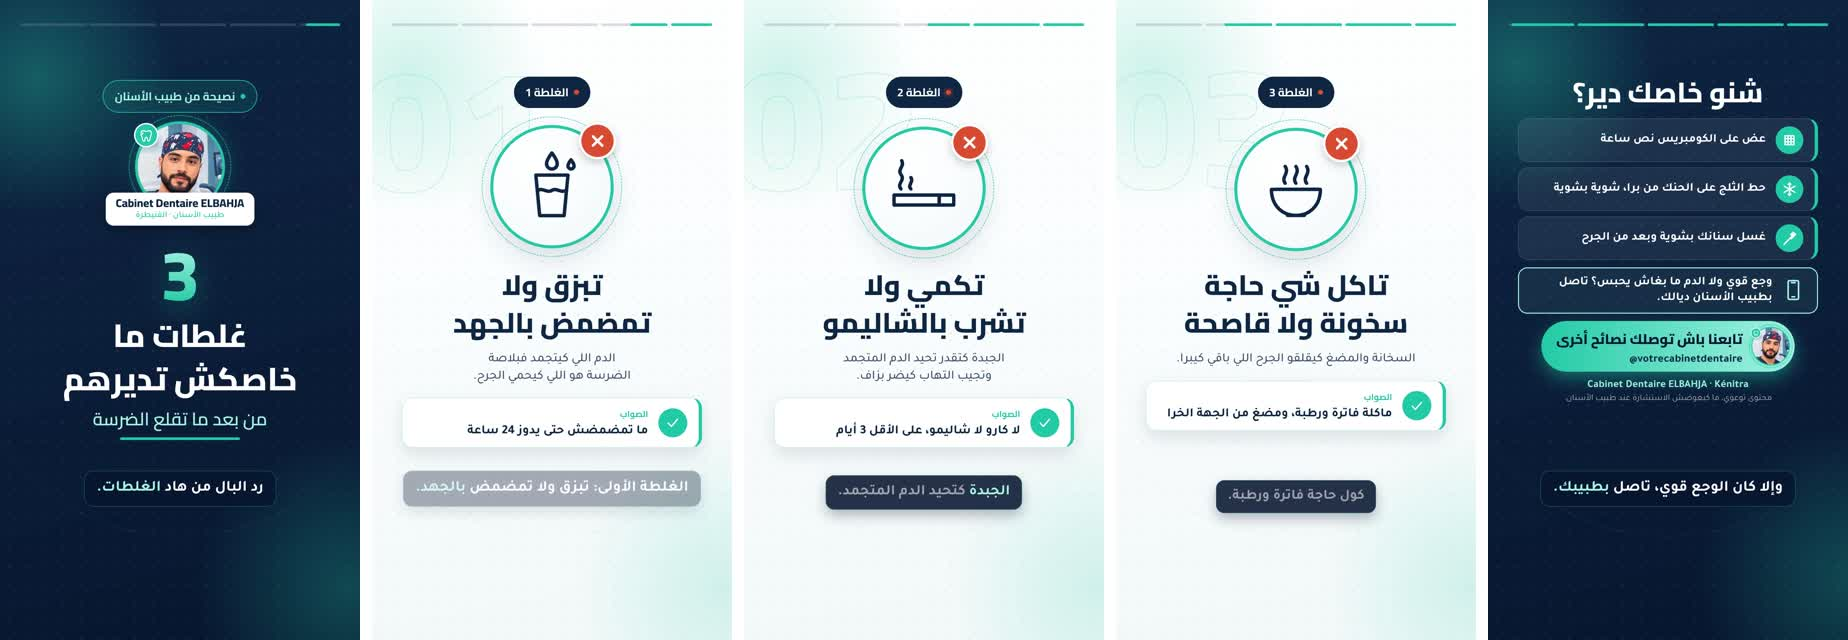
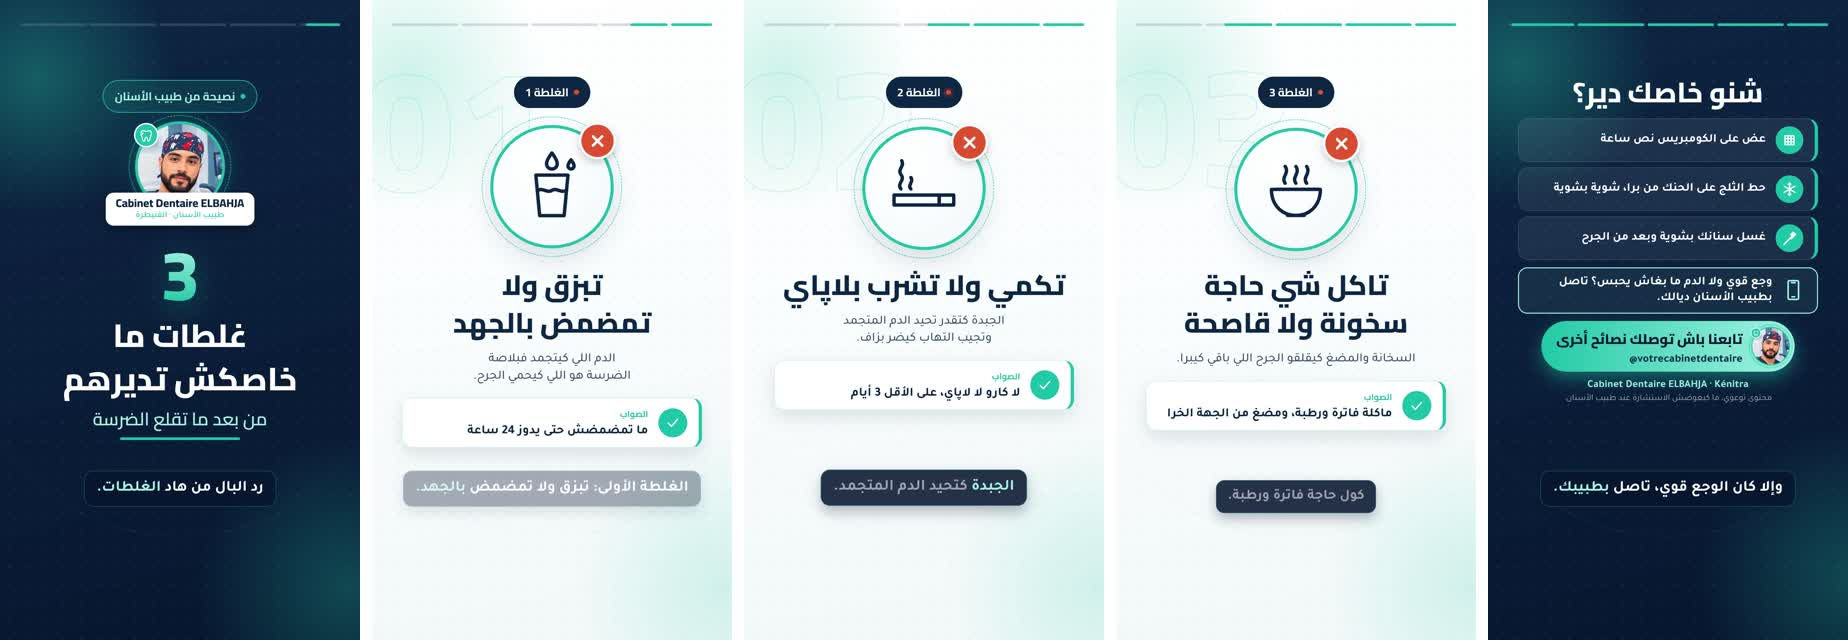
Use لاپاي instead of الشاليمو for "straw"
Claude-Session: https://claude.ai/code/session_019emWRc321bo3ZfySXjdsNf

Changed region(s): [[0.4318, 0.4062, 0.586, 0.6875], [0.4318, 0.7188, 0.5552, 0.8125]]

diff --git a/src/videos/extraction-darija.ts b/src/videos/extraction-darija.ts
@@ -57,13 +57,13 @@ export const extractionDarija: VideoContent = {
     },
     {
       label: "الغلطة 2",
-      title: "تكمي ولا تشرب بالشاليمو",
+      title: "تكمي ولا تشرب بلاپاي",
       icon: "cigarette",
       explanation: "الجبدة كتقدر تحيد الدم المتجمد وتجيب التهاب كيضر بزاف.",
       goodPracticeLabel: "الصواب",
-      goodPractice: "لا كارو لا شاليمو، على الأقل 3 أيام",
+      goodPractice: "لا كارو لا لاپاي، على الأقل 3 أيام",
       subtitles: [
-        "الغلطة الثانية: الكارو ولا الشاليمو.",
+        "الغلطة الثانية: الكارو ولا لاپاي.",
         "الجبدة كتحيد الدم المتجمد.",
       ],
       durationInFrames: 210,

diff --git a/README.md b/README.md
@@ -105,7 +105,7 @@ In the content file, under `voiceover`:
 ### Pronunciation tips for Darija
 
 - Write numbers **in words** in the narration (`تلاتة`, `نهار كامل`), so the voice doesn't read them in Standard Arabic. Digits are fine in titles and cards, which are not spoken.
-- If a word sounds wrong, try another spelling (e.g. `شاليمو` / `الشاليمو`), or add punctuation to force a pause.
+- If a word sounds wrong, try another spelling (e.g. `كارو` / `الكارو`), or add punctuation to force a pause.
 - To replace one line with **your own recording**, save it as `public/voiceover/<videoId>/recordings/<line>.mp3` (or `.wav` / `.m4a`) and run `npm run voiceover`. Recordings always take priority over the AI voice. Line names are `intro-0`, `intro-1`, `tip1-0`, `tip1-1`, `tip2-0`, … `outro-1`.
 
 ## Editing the text
